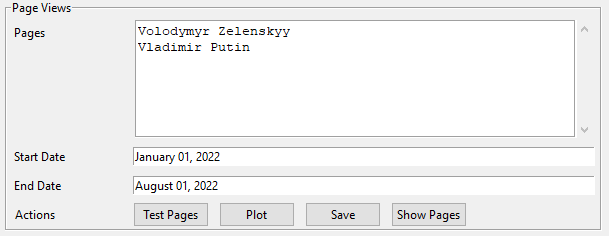
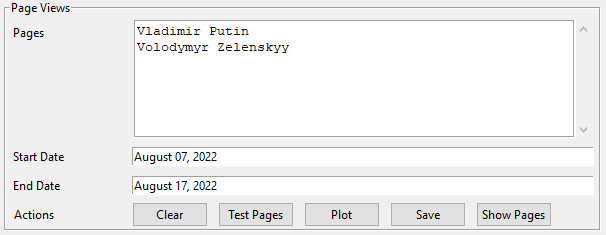
Documenting

Changed region(s): [[0.0, 0.0, 1.0, 0.983]]

diff --git a/keyword_explorer/Apps/WikiPageviewExplorer.py b/keyword_explorer/Apps/WikiPageviewExplorer.py
@@ -95,6 +95,8 @@ class WikiPageviewExplorer(AppBase):
         self.end_date_field = DateEntryField(lf, row, 'End Date', text_width, label_width=label_width)
         row = self.end_date_field.get_next_row()
         buttons = Buttons(lf, row, "Actions", label_width=label_width)
+        b = buttons.add_button("Clear", self.clear_pageviews_callback)
+        ToolTip(b, "Clears the topics from the Views text area")
         b = buttons.add_button("Test Pages", self.test_pages_callback)
         ToolTip(b, "Query page views between Start Date and End Date and plot results")
         b = buttons.add_button("Plot", self.plot_callback)
@@ -128,7 +130,11 @@ class WikiPageviewExplorer(AppBase):
 
     def copy_selected_callback(self):
         s = self.response_text_field.get_selected()
-        self.wiki_pages_text_field.set_text(s)
+        self.wiki_pages_text_field.add_text(s+"\n")
+        #self.wiki_pages_text_field.set_text(s)
+
+    def clear_pageviews_callback(self):
+        self.wiki_pages_text_field.clear()
 
     def search_wiki_callback(self):
         key_list = self.topic_text_field.get_list("\n")

diff --git a/markup/WikiPageviewExplorer.md b/markup/WikiPageviewExplorer.md
@@ -1,6 +1,6 @@
 # WikiPageviewExplorer
 
-Don't have a Twitter or OpenAI account? Not to worry! _WikiPageviewExplorer_ is a Python desktop app that lets you interactively search for (English) entries using keywords. Pages that contain or relate to the keywords are presented in a list that can then be quueried for the number of daily pageviews within a date range.
+Don't have a Twitter or OpenAI account? Not to worry! _WikiPageviewExplorer_ is a Python desktop app that lets you interactively search for (English) entries using keywords. Pages that contain or relate to the keywords are presented in a list that can then be queried for the number of daily pageviews within a date range.
 
 >![WikiPageviewExplorer](../images/WikiPageviewExplorer.png)
 
@@ -23,6 +23,10 @@ The screen is divided into 5 panels:
 
 ## Topic Search <span id="topic-search-panel"/>
 >![WikiTopicSearch](../images/wiki_topic_panel.png)
+
+The topic search panel takes keywords that are typed (or loaded using **File->Load Experiments**)). When the user clicks the **Search** button, a request is sent that looks for Wikipedia entries that are exact or approximate matches. In this example, we have two somewhat vague keywords: "zelensky" and "putin". The wikipedia returns multiple matches, ranging from [Igor Zelensky](https://en.wikipedia.org/wiki/Igor_Zelensky), the Russian ballet dancer, to [Lyudmila Putina](https://en.wikipedia.org/wiki/Lyudmila_Putina), the former wife of Vladimir Putin.  
+
+Selecting the [Volodymyr Zelenskyy](https://en.wikipedia.org/wiki/Volodymyr_Zelenskyy) and [Vladimir Putin](https://en.wikipedia.org/wiki/Vladimir_Putin) entries and clicking **Copy Selected** will copy the entry to the **Pages** text area in the [Page Views](page-views-panel) panel for exploring page views.
 
 ## Page Views <span id="page-views-panel"/>
 >![WikiPageViews](../images/wiki_page_views_panel.png)
